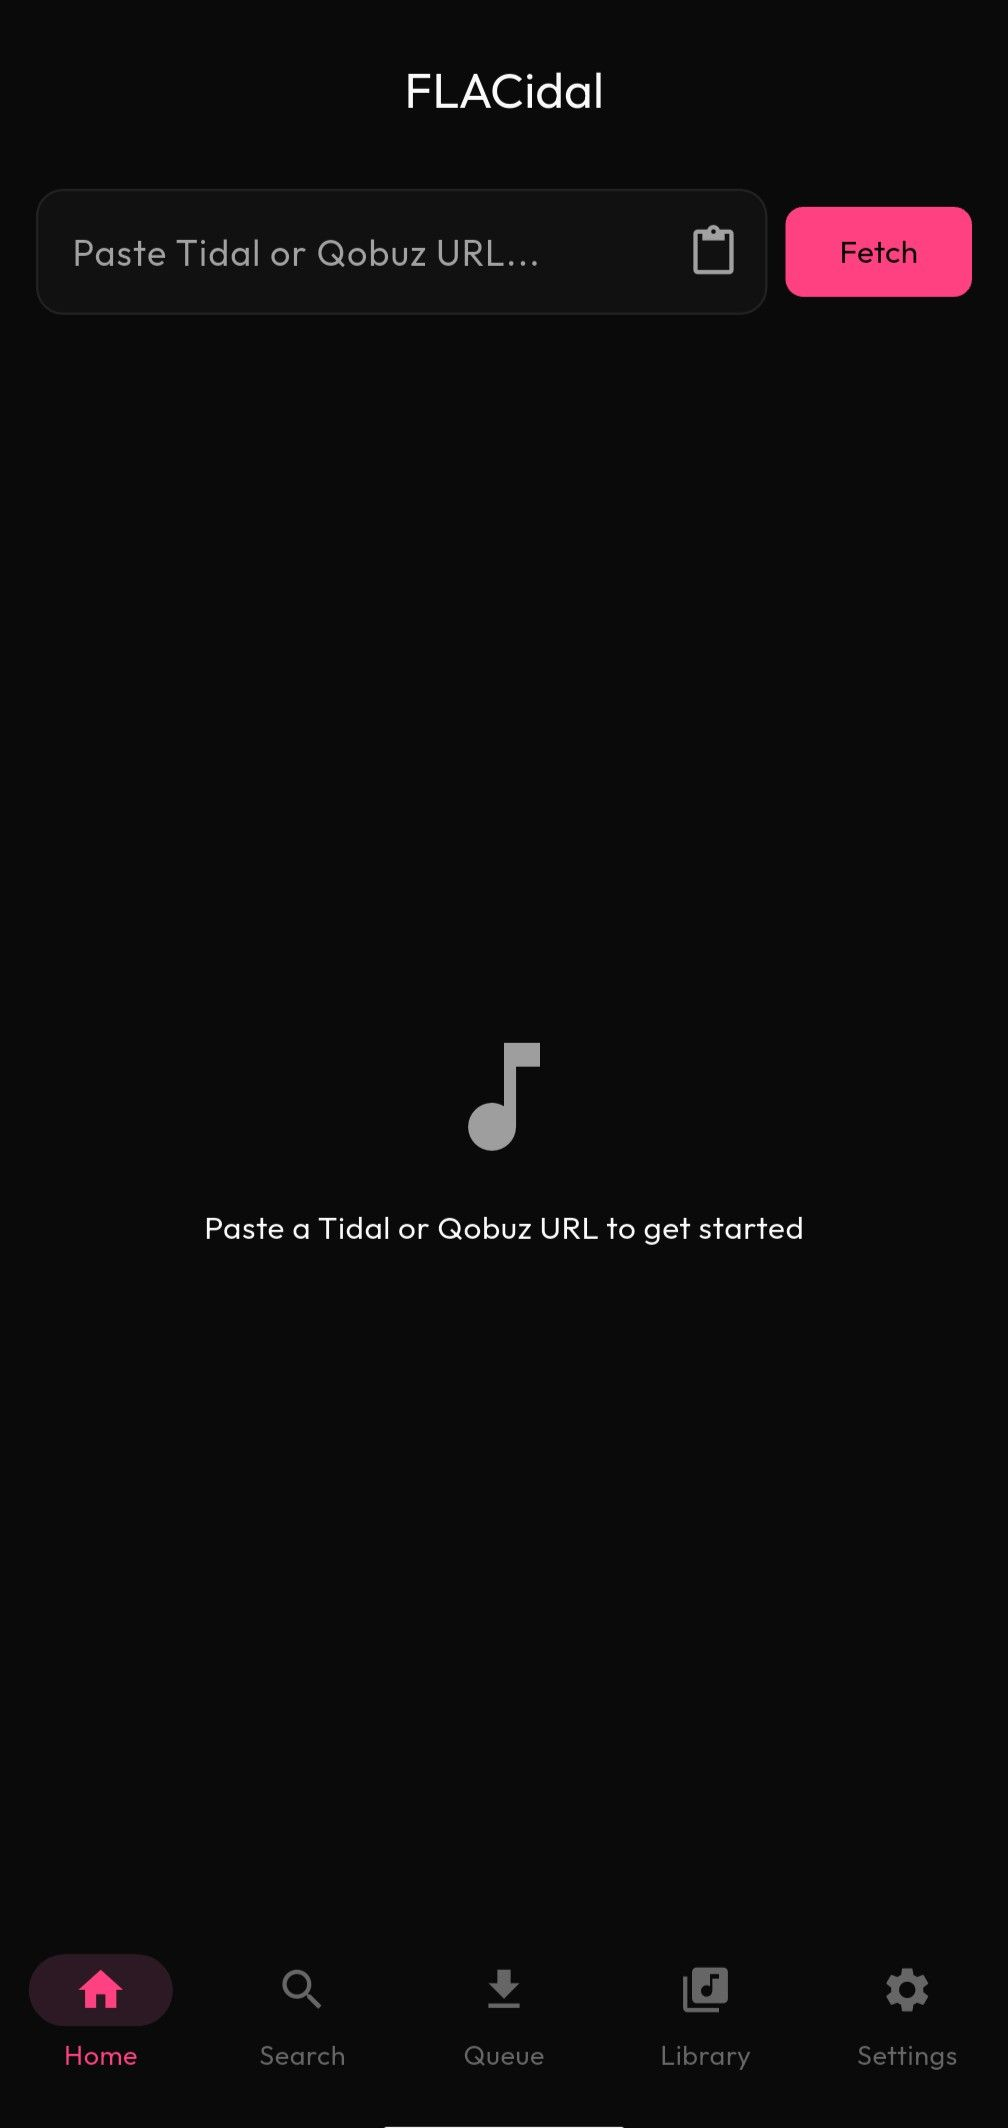
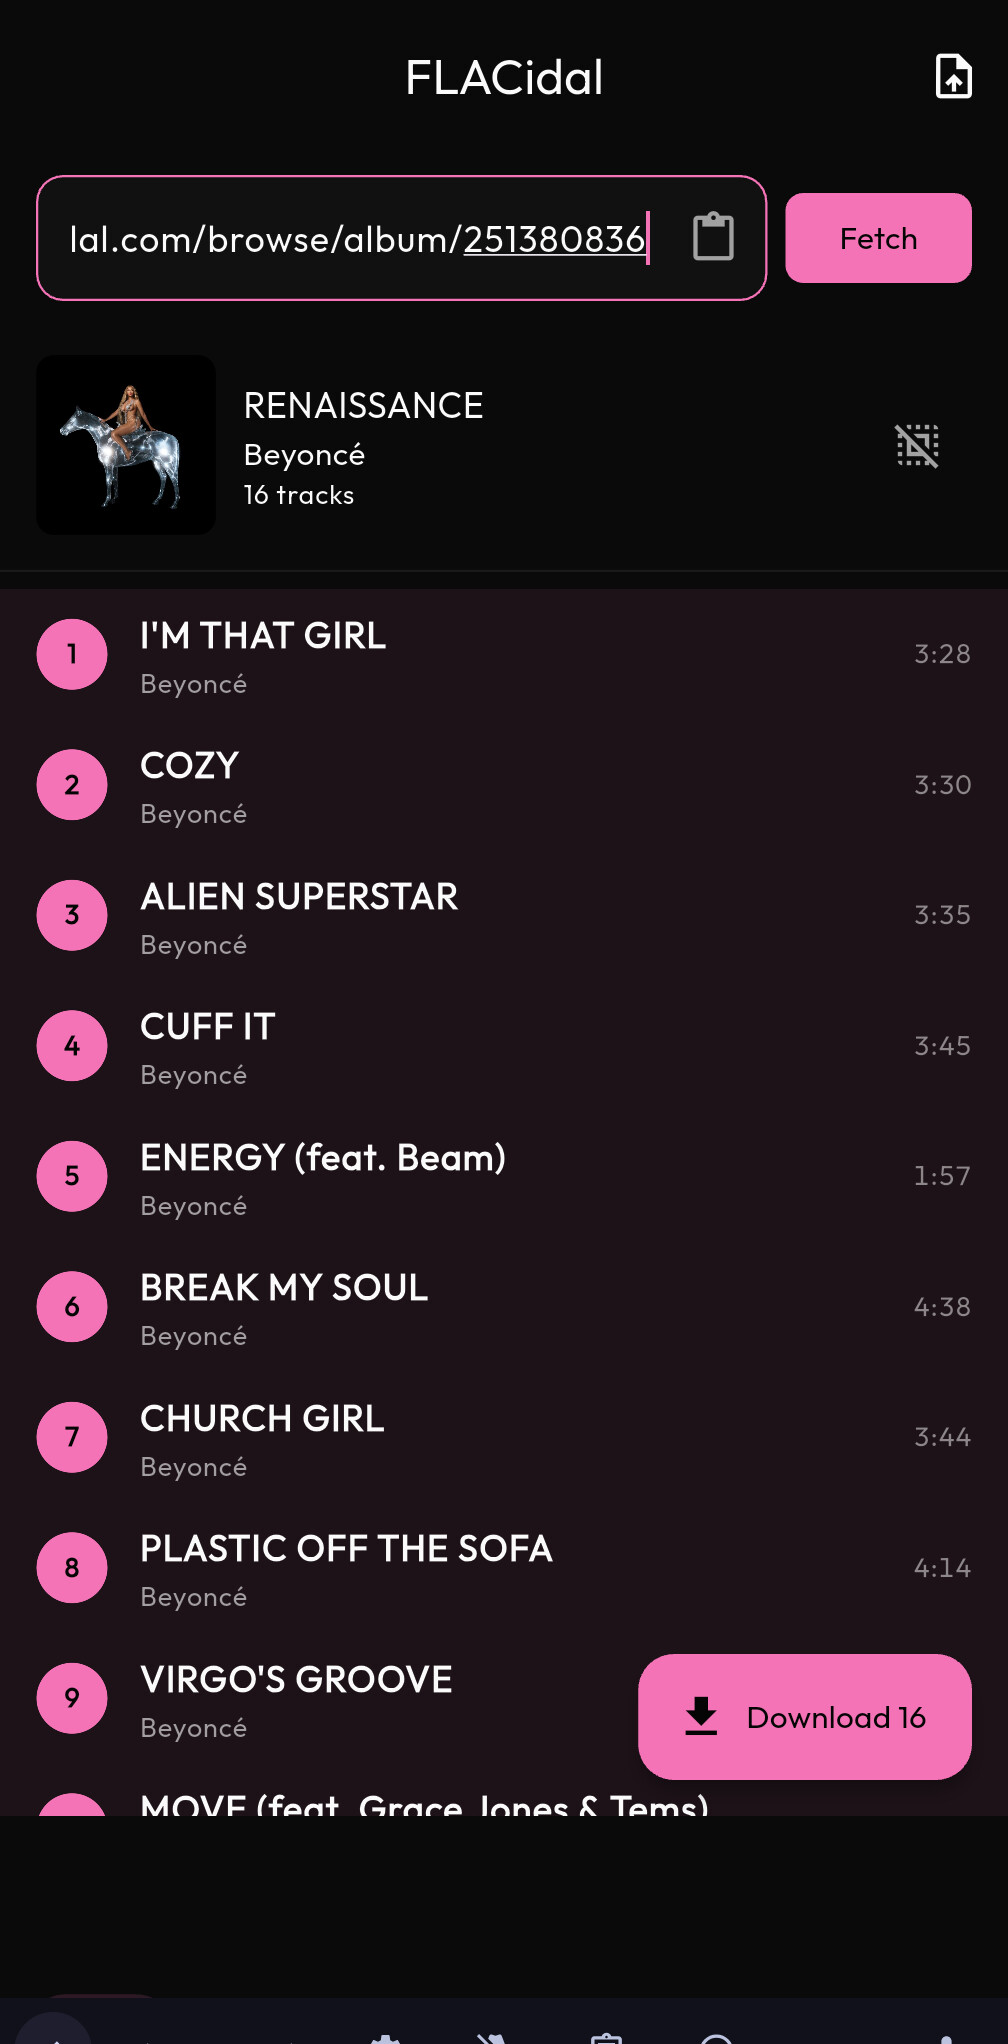
fix: replace broken showcase GIF with clean screenshot

diff --git a/README.md b/README.md
@@ -19,7 +19,7 @@
 ---
 
 <div align="center">
-<img src="showcase.gif" alt="FLACidal Mobile Showcase" width="800">
+<img src="screenshot.jpg" alt="FLACidal Mobile" width="300">
 </div>
 
 ---
